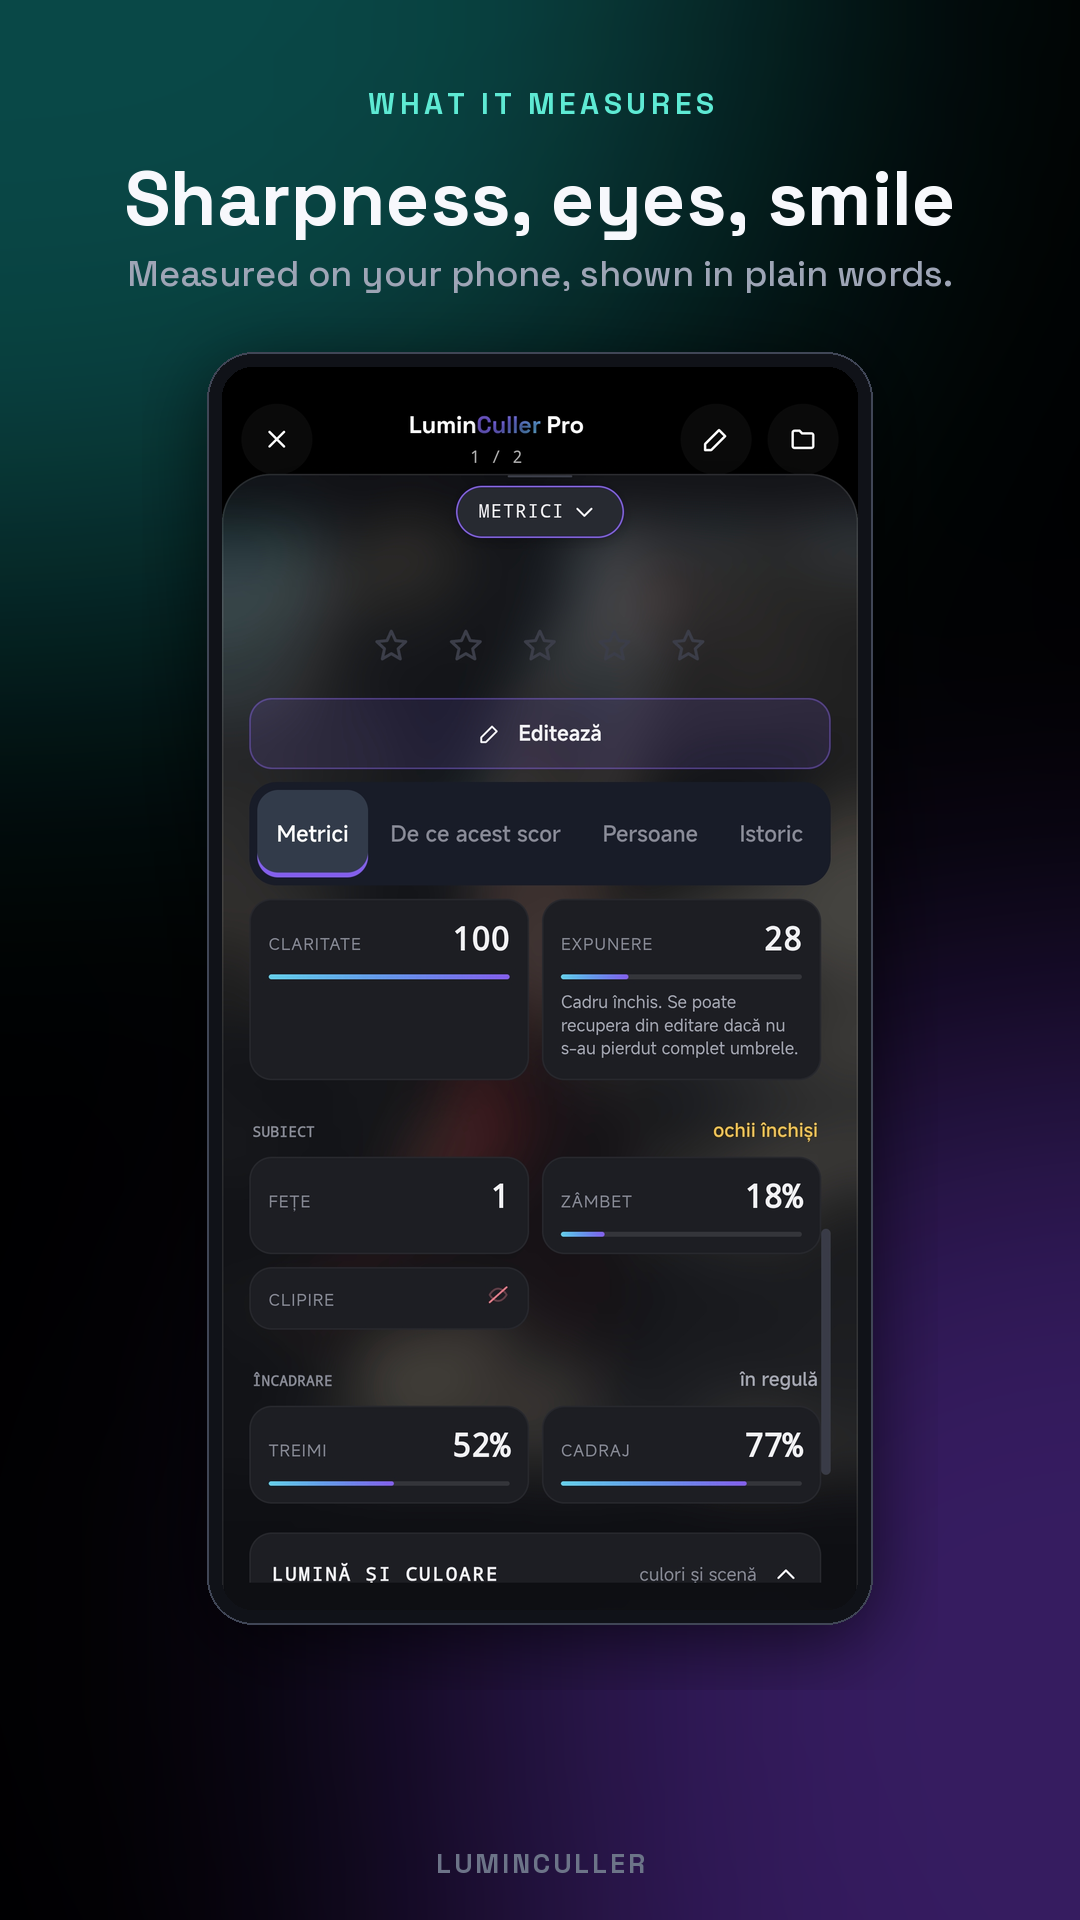
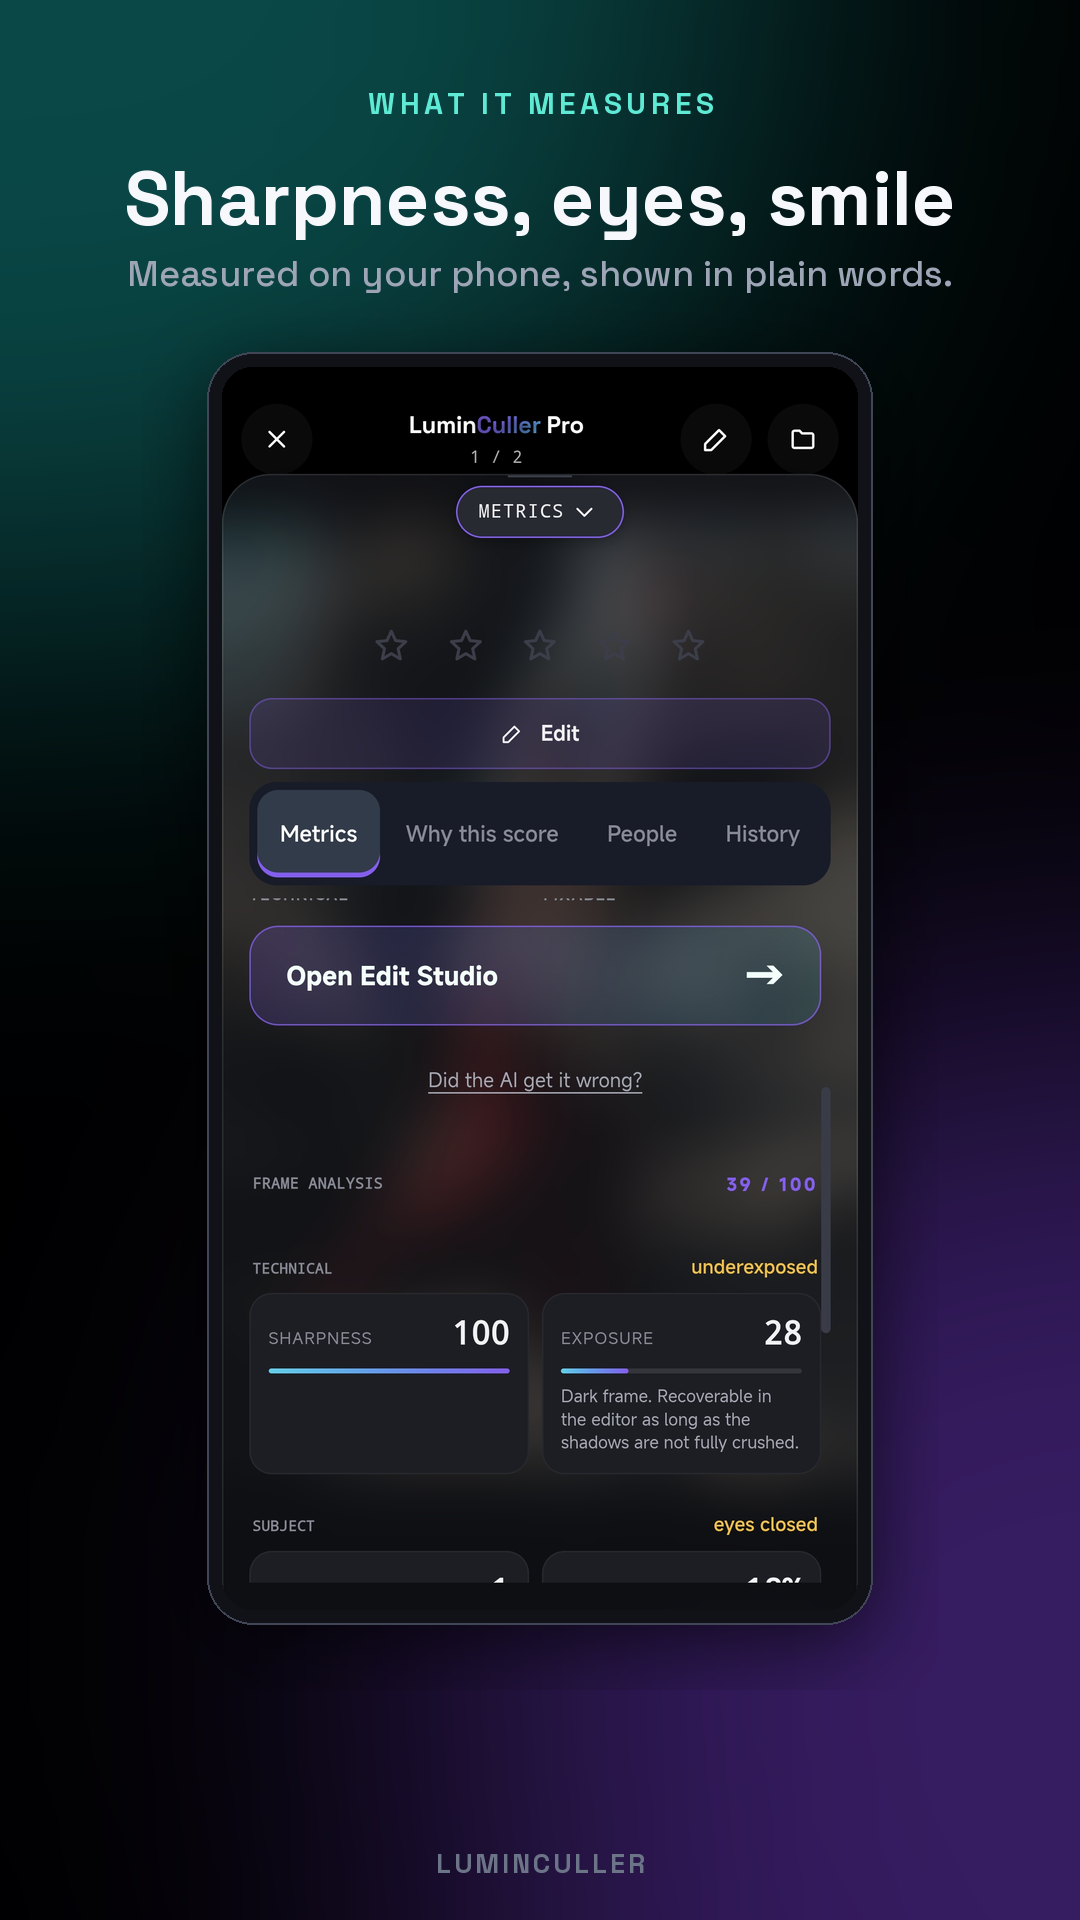
Setul englezesc, refăcut din capturi cu interfața în engleză
Până acum setul EN punea titluri englezești peste ecrane românești. Nu era
înșelător — aplicația chiar face ce scrie — dar un vorbitor de engleză vedea
diferența din prima, exact acolo unde te costă: la instalare.

Cele două seturi nu mai au aceleași șase ecrane, și e o diferență reală, nu o
scăpare. Lista "pe cauze" apare doar când ai destule poze de verificat; sesiunea
englezească avea două, deci ecranul pur și simplu nu există în capturi. Locul lui
îl ia bara de exigență — alt ecran, aceeași promisiune: nu doar câte, ci și cât
de sever. Slotul de confidențialitate trece de pe ecranul de pornire pe meniu,
unde scrie negru pe alb că nicio poză nu pleacă de pe telefon; titlul de deasupra
nu mai e o afirmație, e o legendă la ce se vede.

Sertarul de meniu își începe conținutul chiar sub bara de stare, așa că, tăiat,
ajungea cu titlul lipit de colțul ramei. Nu e o problemă a aplicației, e a
decupajului nostru, și se rezolvă unde a apărut: o bandă de respiro deasupra.

Claude-Session: https://claude.ai/code/session_0155ruC6WPAMZsMAjxbzwDqH

diff --git a/scripts/store-screenshots.py b/scripts/store-screenshots.py
@@ -66,6 +66,22 @@ def taie_bara_de_sistem(im):
     return im.crop((0, CROP_TOP, im.width, y + 1))
 
 
+# Cateva ecrane isi incep continutul chiar sub bara de stare (sertarul de
+# meniu, de exemplu, e pe tot ecranul si isi pune titlul in varf). Taiata,
+# captura ajunge cu titlul lipit de coltul rotunjit al ramei si arata inghesuit
+# — nu e o problema a aplicatiei, e o problema a decupajului nostru, asa ca se
+# rezolva aici: adaugam o banda neagra de aceeasi culoare cu fundalul ecranului.
+PAD_SUS = {'57ce8f4f-image.jpg': 40}
+
+
+def respira_sus(im, inaltime):
+    if inaltime <= 0:
+        return im
+    nou = Image.new('RGB', (im.width, im.height + inaltime), im.getpixel((im.width - 4, 4)))
+    nou.paste(im, (0, inaltime))
+    return nou
+
+
 def pregateste_fonturile():
     """Space Grotesk cu diacritice romanesti — vezi antetul fisierului."""
     bold, med = f'{FONTS}/SG-bold.ttf', f'{FONTS}/SG-med.ttf'
@@ -158,6 +174,7 @@ def compune(sursa, eticheta, titlu, subtitlu, nume, insigna=None, limba='ro'):
     # ── Telefonul ───────────────────────────────────────────────────────────
     im = Image.open(os.path.join(SRC, sursa)).convert('RGB')
     im = taie_bara_de_sistem(im)
+    im = respira_sus(im, PAD_SUS.get(sursa, 0))
 
     sus = y + 54
     disponibil = H - sus - 116          # 116 = loc pentru semnatura de jos
@@ -207,23 +224,29 @@ def compune(sursa, eticheta, titlu, subtitlu, nume, insigna=None, limba='ro'):
     print(cale, bg.size)
 
 
-# ── Textele, pe limbi ────────────────────────────────────────────────────────
+# ── Textele, pe limbi ──────────────────────────────────────────────────────
 #
-# ATENTIE, si e o limita reala, nu o scapare: interfata DIN capturi e in
-# romana. Setul englezesc de mai jos pune titluri englezesti peste ecrane
-# romanesti. Nu e inselator (aplicatia chiar face ce scrie), dar un vorbitor
-# de engleza vede diferenta imediat, si asta costa la conversie.
+# Fiecare set isi are capturile lui, facute cu aplicatia comutata pe limba
+# respectiva. Prima varianta a setului englezesc punea titluri englezesti peste
+# ecrane romanesti; nu era inselator, dar un vorbitor de engleza vedea
+# diferenta din prima si asta costa exact acolo unde nu vrei, la conversie.
 #
-# Varianta corecta e sa refaci ACELEASI sase capturi cu aplicatia comutata pe
-# EN (Meniu -> Setari -> limba), sa le pui in acelasi folder si sa schimbi doar
-# numele fisierelor din `SURSE_EN`. Restul scriptului nu se atinge.
+# Cele doua seturi NU au aceleasi sase ecrane, si e o diferenta reala, nu o
+# scapare: lista "pe cauze" apare doar cand ai destule poze de verificat
+# (sesiunea romaneasca avea 17, cea englezeasca 2), asa ca in engleza locul ei
+# il ia bara de exigenta — alt ecran, dar aceeasi promisiune: nu doar cat, ci
+# si cat de sever. Daca refaci vreodata capturile englezesti cu o sesiune mare,
+# pune ecranul cu cauze inapoi pe pozitia 2 si textele se potrivesc ca atare.
 SURSE_RO = {
     'scoruri': '25537cf9-image.jpg', 'cauze': '40e959de-image.jpg',
     'dece': 'a5734068-image.jpg', 'metrici': '69016b10-image.jpg',
     'decizie': '0dc65acc-image.jpg', 'privat': '3f64d51d-image.jpg'
 }
-# Cand ai capturile cu aplicatia in engleza, inlocuieste valorile de aici.
-SURSE_EN = dict(SURSE_RO)
+SURSE_EN = {
+    'scoruri': 'a7ca390f-image.jpg', 'exigenta': '2ef2faf9-image.jpg',
+    'dece': 'ac3e349c-image.jpg', 'metrici': 'ea529d48-image.jpg',
+    'decizie': '5231550a-image.jpg', 'privat': '57ce8f4f-image.jpg'
+}
 
 TEXTE = {
     'ro': [
@@ -243,8 +266,8 @@ TEXTE = {
     'en': [
         ('scoruri', 'AI culling', 'A score for every photo',
          'Import, analysis and sorting — any number of photos, free.', ('12 photos', '83% decided')),
-        ('cauze', 'Your review queue', 'Not just how many. Why.',
-         'Grouped by cause: one gesture, not a hundred.', ('5 causes', 'not 17 calls')),
+        ('exigenta', 'One control', 'You set how strict it is',
+         'Lenient, balanced or strict — and it never touches what you decided.', ('3 levels', 'your calls stay')),
         ('dece', 'Explainable', 'Every score, explained',
          'What counted for it and what against. You confirm, the AI learns.', None),
         ('metrici', 'What it measures', 'Sharpness, eyes, smile',
